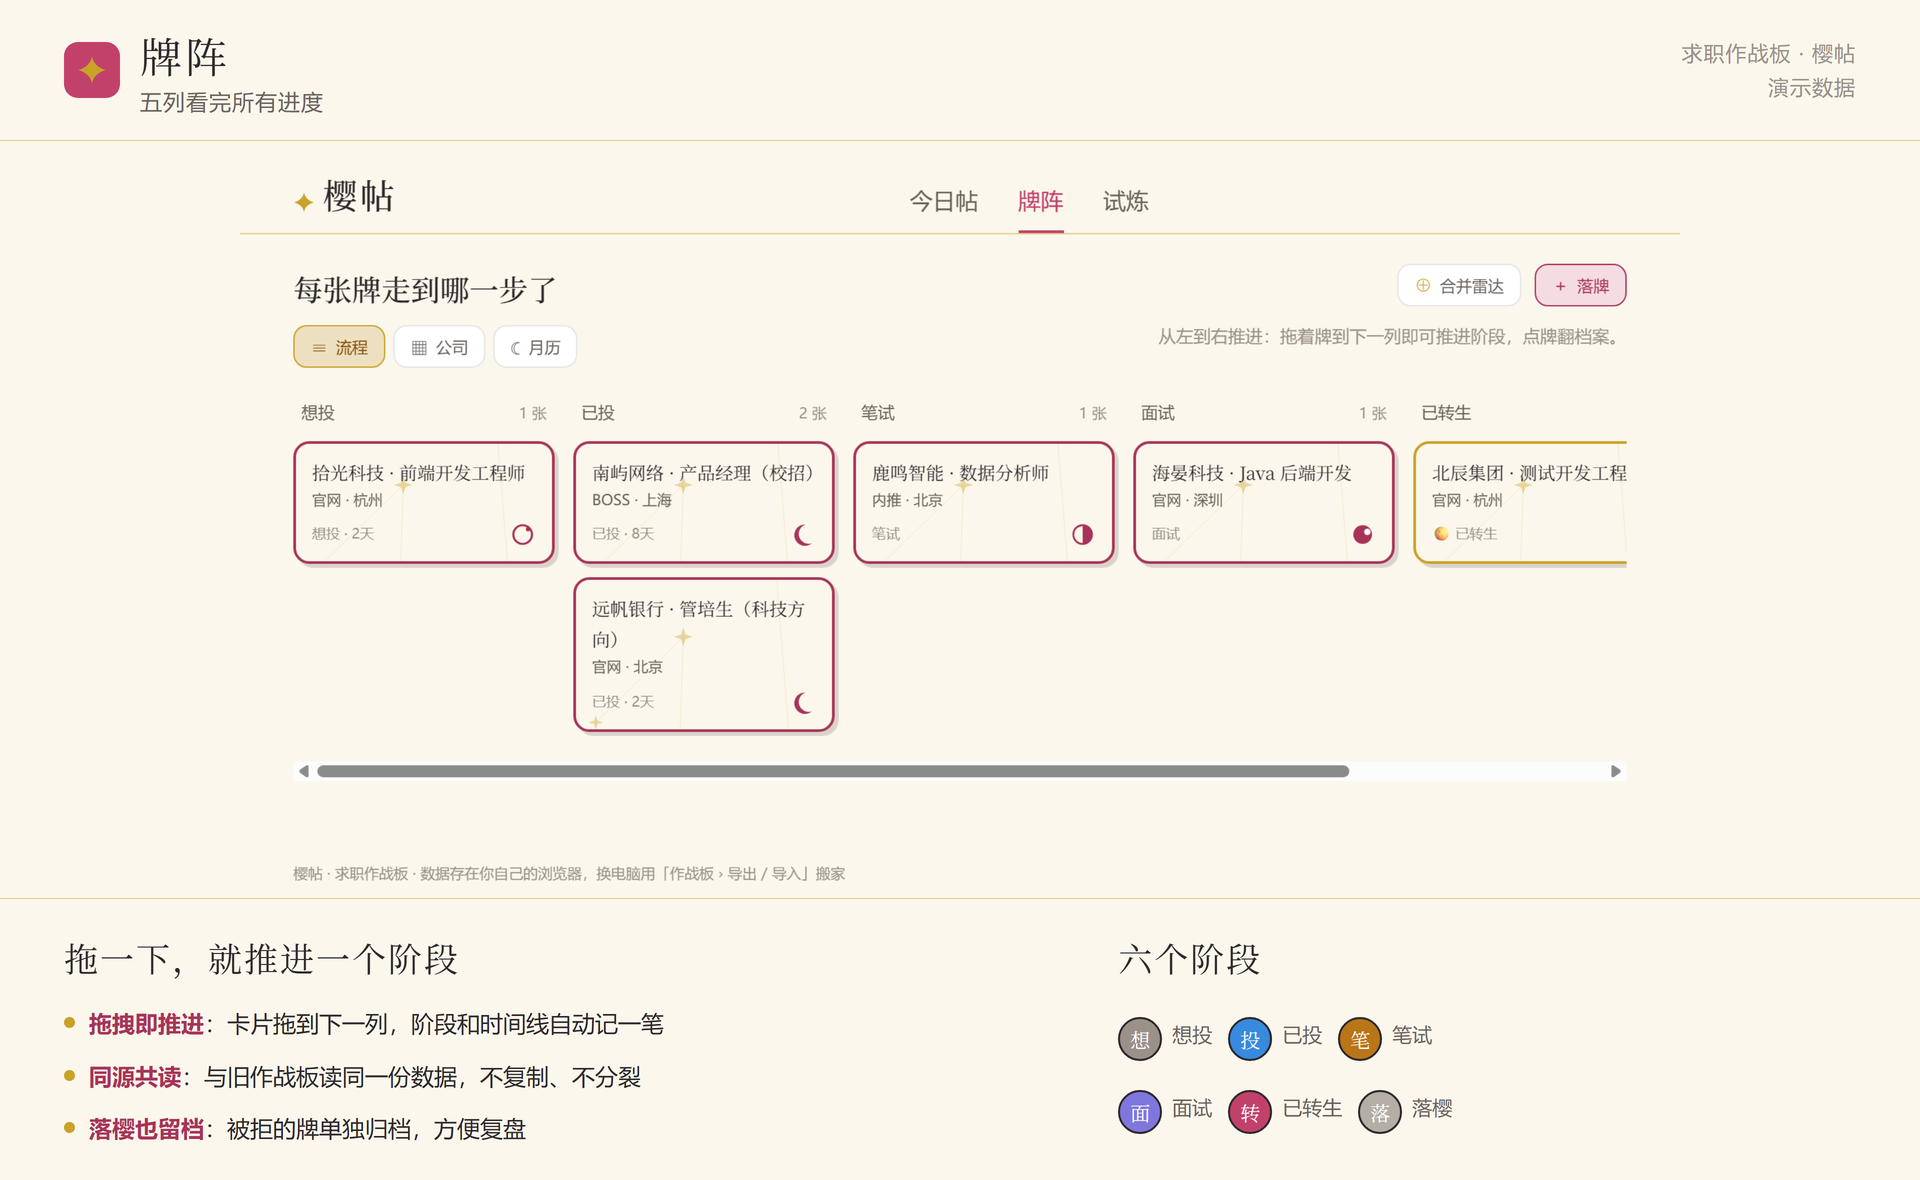
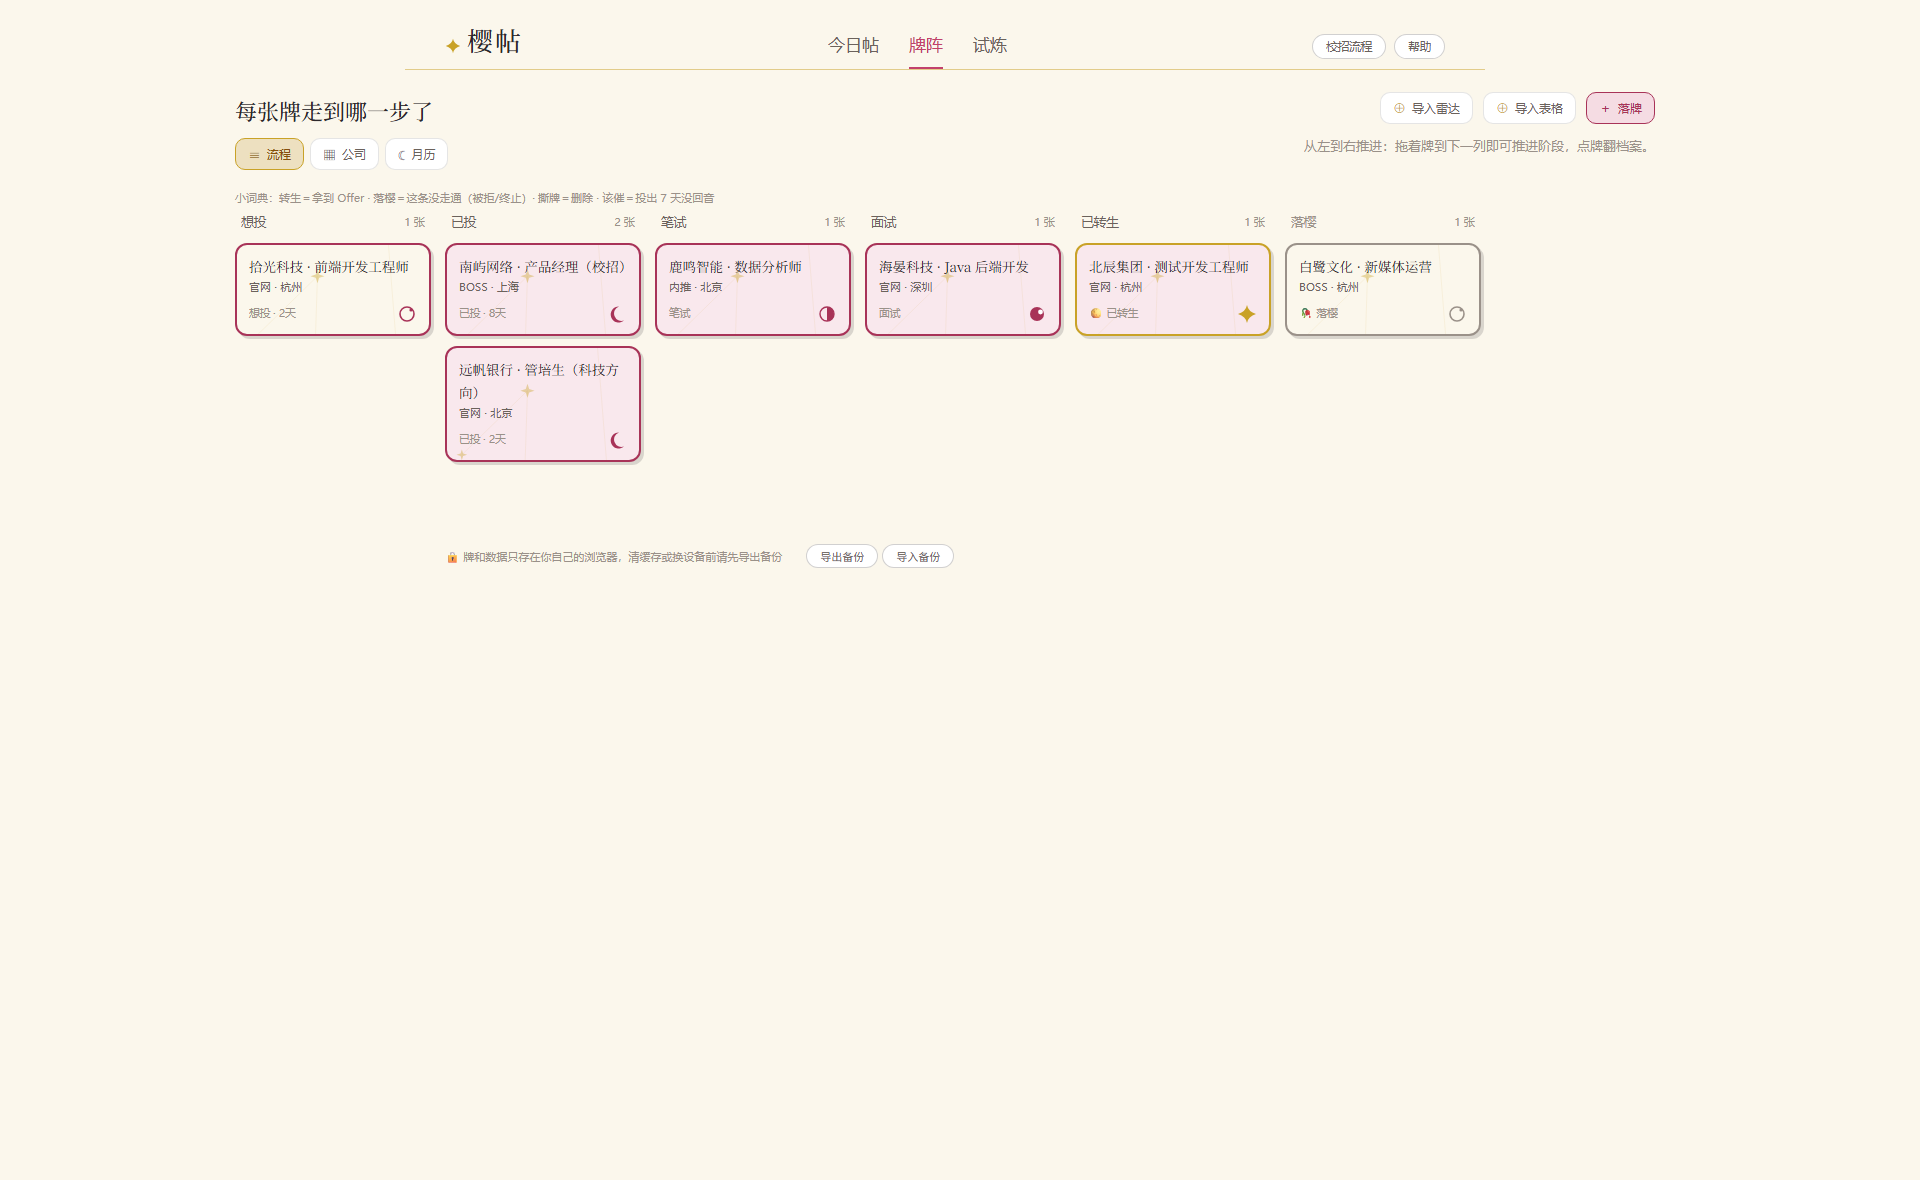
deploy: 作品集樱帖面板同步最新版——重拍 4 张截图 + 补面经管道/AI 三处/落樱术语 + 11 版牌背

diff --git a/portfolio/index.html b/portfolio/index.html
@@ -516,10 +516,10 @@
         <div class="stats">
           <div class="stat"><b>6 态</b><span>校招状态机</span></div>
           <div class="stat"><b>0 依赖</b><span>单文件离线可用</span></div>
-          <div class="stat"><b>22 道</b><span>面试题库种子</span></div>
-          <div class="stat acc"><b>9 版</b><span>牌背视觉迭代</span></div>
+          <div class="stat"><b>3 处</b><span>AI 辅助闭环</span></div>
+          <div class="stat acc"><b>11 版</b><span>牌背视觉迭代</span></div>
         </div>
-        <p class="p-brief">把求职追踪做成「花札牌阵」：每家公司是一张牌，拖拽推进、撕牌删除、月历看 DDL。市面竞品全是欧美流程——测评 DDL、内推、届别窗口都没有，我把默认状态机按<b>中国校招</b>重做。</p>
+        <p class="p-brief">把求职追踪做成「花札牌阵」：每家公司是一张牌，拖拽推进、撕牌删除、月历看 DDL。市面竞品全是欧美流程——测评 DDL、内推、届别窗口都没有，我把默认状态机按<b>中国校招</b>重做；AI 与资讯管道补齐了从投递到面试复盘的全流程。</p>
         <div class="p-shots four">
           <img loading="lazy" src="assets/shot-sakura-today.png" alt="今日帖">
           <img loading="lazy" src="assets/shot-sakura-kanban.png" alt="牌阵">
@@ -528,8 +528,8 @@
         </div>
         <ul class="p-points">
           <li><b>中国校招状态机</b>——竞品（Jobsync / THRIVE）缺测评 DDL、内推、网申窗口；默认流程本土化，社招 / 考公一处配置切换</li>
-          <li><b>卡牌化交互</b>——拖拽推进阶段、撕牌删除、雷达 JSON 拖入合并（指纹去重），操作全部可视化</li>
-          <li><b>单文件工程</b>——0 依赖、离线可用、BYO Key（AI 题解 / 打招呼语），数据不出浏览器</li>
+          <li><b>AI 三处闭环</b>——答题思路 / 面经收题 / 盘下一轮，全部 BYO 密钥、浏览器直连、同题本机缓存</li>
+          <li><b>单文件 + 资讯管道</b>——0 依赖离线可用；面经由服务端定时采集成静态数据，前端零后端读取</li>
         </ul>
         <button class="p-more" data-lb="lb4">查看完整项目 →</button>
       </div>
@@ -707,10 +707,10 @@
       <div class="stats">
         <div class="stat"><b>6 态</b><span>校招状态机</span></div>
         <div class="stat"><b>0 依赖</b><span>单文件离线可用</span></div>
-        <div class="stat"><b>22 道</b><span>面试题库种子</span></div>
-        <div class="stat acc"><b>9 版</b><span>牌背视觉迭代</span></div>
+        <div class="stat"><b>3 处</b><span>AI 辅助闭环</span></div>
+        <div class="stat acc"><b>11 版</b><span>牌背视觉迭代</span></div>
       </div>
-      <p class="p-intro">求职时投递状态散落在日历（测评 DDL）、邮箱（投递记录）、聊天记录（HR 进度）、备忘录（面试复盘）里，全乱。市面求职追踪器（Jobsync、THRIVE 等）大多是欧美流程：没有测评笔试、没有内推、没有网申 DDL、没有届别窗口——而这几样恰恰是<b>中国校招的主干</b>。所以我把默认状态机做成中国校招，社招 / 考公用户一处配置即可切换。</p>
+      <p class="p-intro">求职时投递状态散落在日历（测评 DDL）、邮箱（投递记录）、聊天记录（HR 进度）、备忘录（面试复盘）里，全乱。市面求职追踪器（Jobsync、THRIVE 等）大多是欧美流程：没有测评笔试、没有内推、没有网申 DDL、没有届别窗口——而这几样恰恰是<b>中国校招的主干</b>。所以我把默认状态机做成中国校招，社招 / 考公用户一处配置即可切换。上线后按自己真实使用时的摩擦点持续迭代：补了新手引导、批量导入、到点提醒，并把「找面经」整件事挪到了服务端定时任务里。</p>
       <div class="screen-only" style="text-align:center;margin-bottom:26px;">
         <a class="btn btn-primary" href="https://whaleof.github.io/offer-tracker/" target="_blank" rel="noopener">▶ 在线体验（GitHub Pages）</a>
         <a class="btn btn-ghost" href="https://github.com/whaleof/offer-tracker" target="_blank" rel="noopener" style="margin-left:10px;">查看源码仓库</a>
@@ -740,14 +740,14 @@
           <img loading="lazy" src="assets/shot-sakura-kanban.png" alt="牌阵">
           <div class="hl-body">
             <div class="hl-name">② 牌阵 · 六态流转 + 拖拽推进<span class="hl-tag">核心交互</span></div>
-            <div class="hl-desc">想投 → 已投 → 笔试 → 面试 → 已转生 → 淬殒。拖一张牌到下一列即推进，自动写历史记录；流程 / 公司 / 月历三种视角切换。点开一张牌即翻档案：公司 / 岗位 / 城市 / 渠道 / 薪资 / 简历版本 / 届别核验 / 适配度 / 下一步动作，DDL 倒计时超时自动标「需跟进」。<b>设计判断：</b>求职本身够焦虑了，界面要做的是把它变成「可摆弄的牌」。</div>
+            <div class="hl-desc">想投 → 已投 → 笔试 → 面试 → 已转生 → 落樱。拖一张牌到下一列即推进，自动写历史记录；流程 / 公司 / 月历三种视角切换，社招用户可一键切成无笔试列的精简流程。点开一张牌即翻档案：公司 / 岗位 / 城市 / 渠道 / 薪资 / 简历版本 / 届别核验 / 适配度 / 下一步动作，DDL 倒计时超时自动标「需跟进」。<b>设计判断：</b>求职本身够焦虑了，界面要做的是把它变成「可摆弄的牌」。</div>
           </div>
         </div>
         <div class="hl">
           <img loading="lazy" src="assets/shot-sakura-quiz.png" alt="试炼">
           <div class="hl-body">
             <div class="hl-name">③ 试炼 · 面试复盘长成题库<span class="hl-tag">闭环设计</span></div>
-            <div class="hl-desc">每轮面试记下「被问倒的题」，自动汇成按公司筛选的刷题库；被问倒的题可让 AI 生成答题思路（要点式 + 面试官为什么问）。<b>设计判断：</b>失败也要变成资产，复盘不是写完就死的笔记。</div>
+            <div class="hl-desc">每轮面试记下「被问倒的题」，自动汇成按公司筛选的刷题库（内置 22 道通用种子题）。三处 AI 接手：<b>答题思路</b>（破题 → 作答框架 → 亮点收尾）、<b>面经收题</b>（贴面经原文抽真题，明令禁止编题）、<b>盘下一轮</b>（读完复盘点名薄弱点）。资讯侧由服务端每天定时采集对口面经，前端只管看。<b>设计判断：</b>失败也要变成资产，复盘不是写完就死的笔记。</div>
           </div>
         </div>
         <div class="hl">
@@ -762,13 +762,15 @@
       <ul class="tech">
         <li><b>需求定义一页纸：</b>先写清问题、用户、边界与「不做什么」，再动手——避免边做边漂移。</li>
         <li><b>信息架构页面地图：</b>今日帖 / 牌阵 / 试炼三页职责划分，页面地图先行，不堆功能。</li>
-        <li><b>花札（HANAFUDA）考据 + 视觉规范 v1：</b>牌面隐喻、术语（添牌 / 撕牌 / 牌阵 / 转生）与视觉一致；牌背从风格样品 v3-v5 到候选 v6-v9 共 9 版迭代。</li>
+        <li><b>花札（HANAFUDA）考据 + 视觉规范 v1：</b>牌面隐喻、术语（添牌 / 撕牌 / 牌阵 / 转生）与视觉一致；牌背从风格样品一路迭代到 v11 手绘卷草角花。</li>
         <li><b>竞品拆解：</b>Jobsync / THRIVE 等欧美流程追踪器的缺失项（测评 DDL、内推、网申窗口、届别）即差异化清单。</li>
+        <li><b>上线后按真实摩擦迭代：</b>定版三页重构 → 新手引导 + 术语小词典 → Excel/CSV 批量导入 → 到点提醒 → 校招 / 社招流程预设 → 数据导出 / 导入备份 → AI 三处接入 + 面经采集管道。</li>
       </ul>
       <h3 class="sub-h3">工程取舍</h3>
       <ul class="tech">
-        <li><b>单文件 HTML：</b>0 构建、0 依赖、离线双击可用；GitHub Pages 直接发布，换电脑靠导出 / 导入搬家。</li>
-        <li><b>数据自主：</b>数据存浏览器本地，JSON 备份 / 迁移 + CSV 导出分析；<b>BYO Key</b>——AI 功能自带 Key，只存浏览器 localStorage，不进仓库、不经过任何服务器。</li>
+        <li><b>单文件 HTML：</b>0 构建、0 依赖、离线双击可用；GitHub Pages 直接发布，换电脑靠页脚「导出备份 / 导入备份」搬家。</li>
+        <li><b>数据自主：</b>数据存浏览器本地，备份支持<b>覆盖式</b>与<b>增量合并</b>（同指纹只加不动）两种方式；<b>BYO Key</b>——AI 功能自带 Key，只存浏览器 localStorage，不进仓库、不经过任何服务器。</li>
+        <li><b>资讯自动化管道：</b>面经采集放在服务端定时任务，产出静态 JSON，前端零后端依赖读取——把「要不要跑脚本」从使用者身上拿掉。</li>
         <li><b>演示模式：</b>一键载入虚构数据先看效果，可一键清空，降低试用门槛。</li>
       </ul>
     </div>
